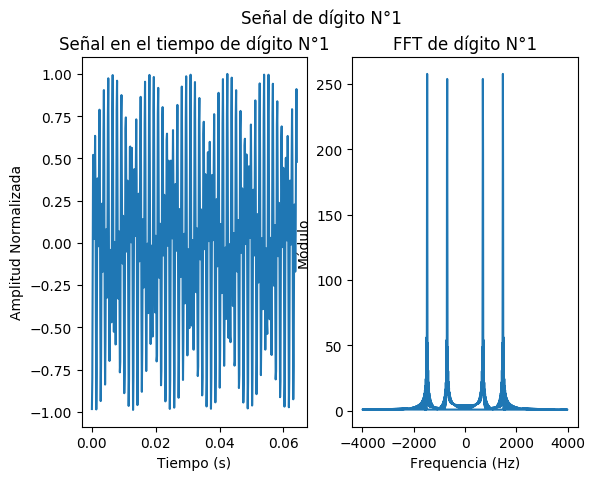
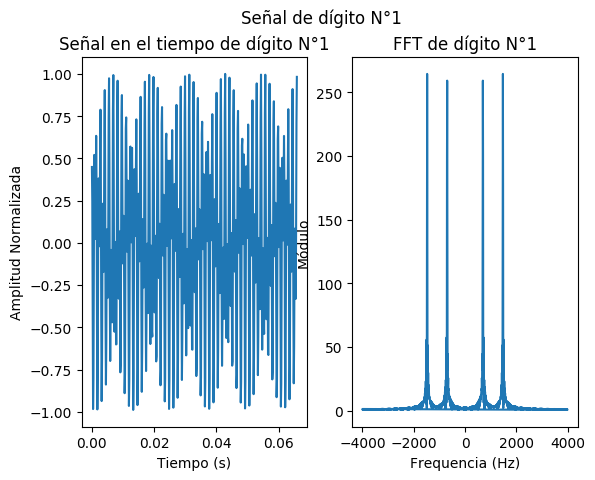
Less points for sinc filter

diff --git a/modules/ejercicio9.py b/modules/ejercicio9.py
@@ -24,25 +24,29 @@ def plot_pass_band_filters():
     plt.show()
 
 
-def pass_band_filter(duration, fs, fc):
-    width_pulse = 60
-    samples = np.linspace(-duration//2, duration//2, int(fs*duration), endpoint=False)
-    sinc = np.sinc(width_pulse*samples)
-    sinc *= np.cos(2*np.pi*fc*samples)
+def pass_band_filter(fc):
+    duration = 15
+    fs = DEFAULT_FS
+    samples = np.linspace(-duration//2, duration//2, int(4*fs*0.07), endpoint=False)
+    sinc = np.sinc(samples)
+    show_signal(fs, sinc, 'Sinc')
+    plt.show()
+    sinc *= np.cos(2*np.pi*(fc/53)*samples)
     sinc *= np.hamming(len(sinc))
-    return sinc
+    # return sinc
     # show_signal(fs, sinc, 'Sinc')
     # plt.savefig('img/ej9_sinc_time.png', bbox_inches='tight')
     # plt.close()
 
-    # magnitude, angle, freq = fft(fs, sinc)
-    # plt.plot(freq, magnitude)
-    # plt.title('DFT Sinc Sin Ventaneo')
-    # plt.xlabel('Frequencia (Hz)')
-    # plt.ylabel('Modulo')
+    magnitude, angle, freq = fft(fs, sinc)
+    plt.plot(freq, magnitude)
+    plt.title('DFT Sinc Sin Ventaneo')
+    plt.xlabel('Frequencia (Hz)')
+    plt.ylabel('Modulo')
+    plt.show()
     # plt.xlim(-50,50)
     # plt.savefig('img/ej9_sinc_dft_no_window.png', bbox_inches='tight')
-    # plt.close()
+    plt.close()
 
 def energy_estimator(fs, signal):
     squared_signal = signal ** 2
@@ -122,10 +126,12 @@ def filter_bank(fs, data):
     return sequence
 
 def ejercicio9():
-    sequence_digits = ['1','2','3','A','4','5','6','B','7','8','9','C','*','0','#','D']
-    signal = dfmt_generator_with(sequence_digits)
+    # sequence_digits = ['1','2','3','A','4','5','6','B','7','8','9','C','*','0','#','D']
+    # signal = dfmt_generator_with(sequence_digits)
 
-    estimated_sequence = filter_bank(DEFAULT_FS, signal)
+    # estimated_sequence = filter_bank(DEFAULT_FS, signal)
 
-    print('Real sequence: {}'.format(sequence_digits))
-    print('Estimated sequence: {}'.format(estimated_sequence))
+    # print('Real sequence: {}'.format(sequence_digits))
+    # print('Estimated sequence: {}'.format(estimated_sequence))
+
+    pass_band_filter(697)

diff --git a/modules/dfmt_signals.py b/modules/dfmt_signals.py
@@ -49,7 +49,7 @@ def frequencies_to_digit(frequencies):
 
 def dfmt_signal_for(digit, fs=DEFAULT_FS, duration=TIME_DIGIT, use_window=False):
     return sin(DFMT_SIGNALS[digit][0], fs, duration,use_window=use_window) + sin(DFMT_SIGNALS[digit][1], fs, duration,use_window=use_window)
-
+    
 def dfmt_generator_with(sequence, duration_digit=TIME_DIGIT):
     signal = np.array([])
 

diff --git a/main.py b/main.py
@@ -13,6 +13,7 @@ from modules.ejercicio9 import ejercicio9
 
 def read_wavfile():
     filepath = 'modemDialing.wav'
+    filepath = 'output/DFMT_32327.wav'
     fs, data = wavfile.read(filepath)
     return fs, np.trim_zeros(data)
 
